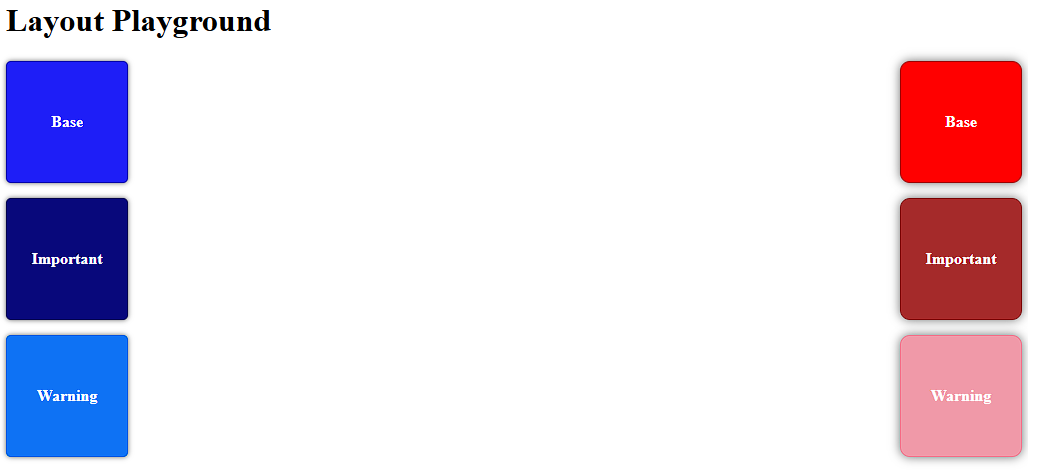
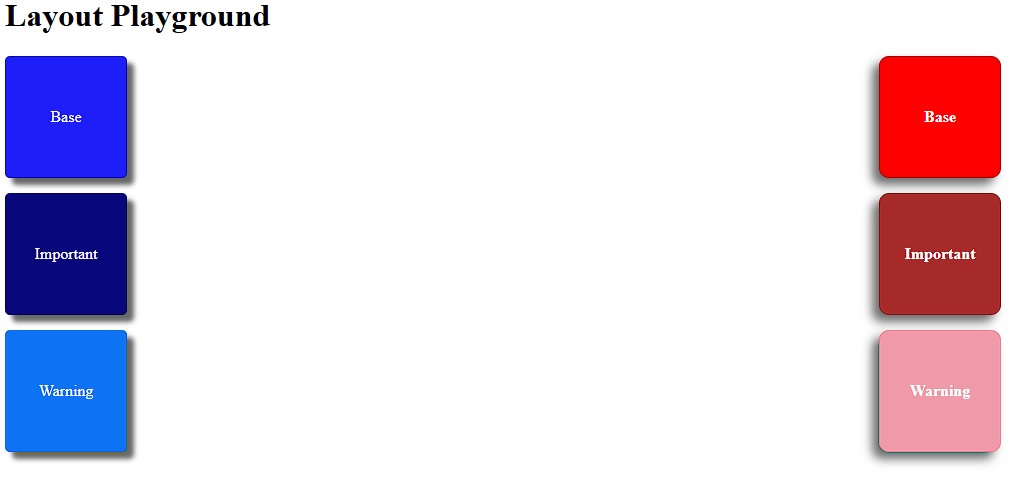
Mod.1 - Laboratorio básico Ejercicio 2

Changed region(s): [[0.0, 0.0, 0.2749, 0.983], [0.8552, 0.0894, 1.0, 0.983]]

diff --git a/Modulo_1/Laboratorio_basico/Ejercicio_2/variables.scss b/Modulo_1/Laboratorio_basico/Ejercicio_2/variables.scss
@@ -2,9 +2,9 @@ $primary-color: #1e1ef7;
 $secondary-color: #08087b;
 $tertiary-color: #0e72f4;
 $text-color: #999;
-$text-weight: 700;
+$text-weight: 400;
 $radius: 5px;
-$shadow: 0px 0px 5px 0px #696969;
+$shadow: 7px 7px 5px 0px #696969;
 
 
 $primary-dark-color: red;
@@ -13,7 +13,7 @@ $tertiary-dark-color: #f099a8;
 $text-color_dark: #ffffff;
 $text-weight_dark: 900;
 $radius_dark: 10px;
-$shadow_dark: 0px 0px 10px 0px #6c6c6c;
+$shadow_dark: -7px 7px 10px 0px #6c6c6c;
 
 
 

diff --git a/Modulo_1/Laboratorio_basico/Ejercicio_2/mystyle.scss b/Modulo_1/Laboratorio_basico/Ejercicio_2/mystyle.scss
@@ -1,5 +1,5 @@
 @use 'mystyle_light.scss';
-//@use 'mystyle_dark.scss';
+@use 'mystyle_dark.scss';
 
 body {
   background-color: #FFF;
